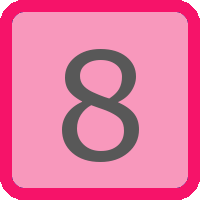
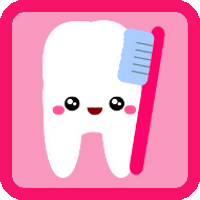
Change card deck images to pictures

diff --git a/css/styles.css b/css/styles.css
@@ -2,7 +2,7 @@
 :root {
   --black: #050505;
   --low-opacity-black: rgba(5,5,5,0.5);
-  --white: #ffffff;
+  --white: #fff;
   --blue: #2274a5;
   --yellow: #eac435;
   --plum: #950952;
